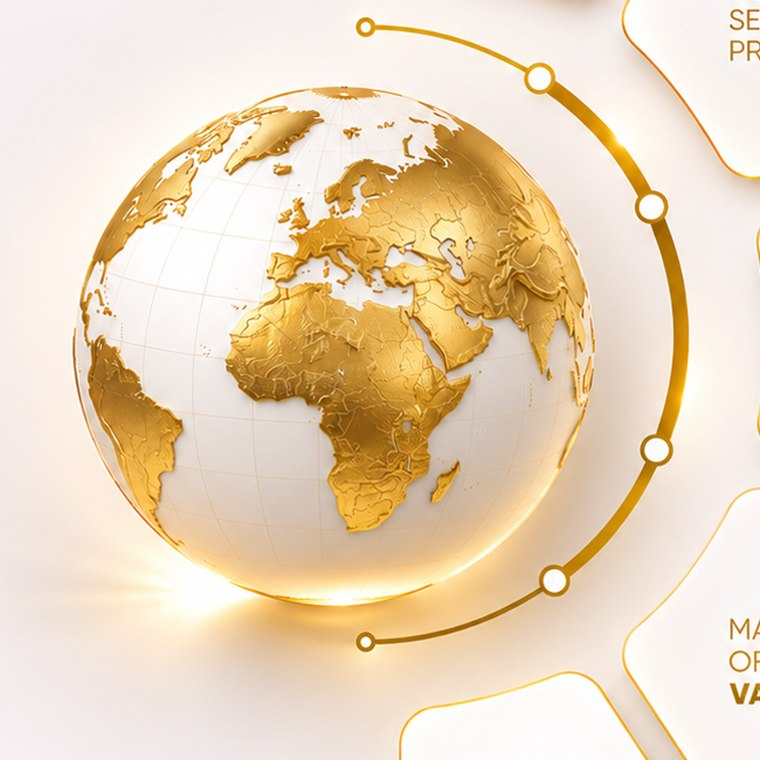
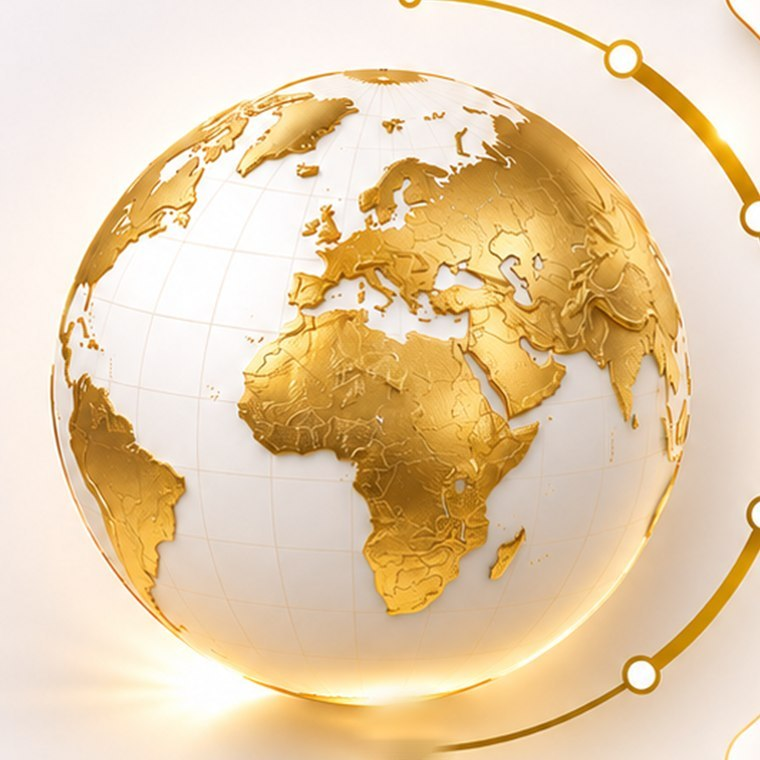
Advanced Skill Building: drop the photo, centre the card
Also recut the jobs globe. The old crop took a 650px square out of the
source artwork, which caught the connector arc and the corners of three
of the artwork's own cards — the box showing below the globe was one of
those. The arc hugs the sphere too closely to mask away, so the new crop
is tight to the globe and the arc goes with it. Mask narrowed to match.

diff --git a/styles.css b/styles.css
@@ -1757,10 +1757,11 @@ h1,h2,h3,h4{font-family:'Outfit',sans-serif;line-height:1.1;font-weight:800;lett
 .tp-jobs-globe{position:sticky;top:110px}
 .tp-jobs-globe img{
   width:100%;max-width:560px;display:block;
-  /* feathered edges, so the artwork's own background melts into the band
-     instead of showing as a pale square */
-  -webkit-mask-image:radial-gradient(closest-side,#000 68%,transparent 97%);
-  mask-image:radial-gradient(closest-side,#000 68%,transparent 97%);
+  /* The artwork is cropped tight to the sphere, so the mask only has to
+     feather the last few per cent — anything wider and it would eat into
+     the glow under the globe. */
+  -webkit-mask-image:radial-gradient(circle closest-side,#000 92%,transparent 97%);
+  mask-image:radial-gradient(circle closest-side,#000 92%,transparent 97%);
 }
 
 /* The cards are as wide as their column and are then pushed right along the
@@ -1825,16 +1826,17 @@ h1,h2,h3,h4{font-family:'Outfit',sans-serif;line-height:1.1;font-weight:800;lett
 
 /* ---------- advanced skill building strip ---------- */
 .tp-extra{position:relative;overflow:hidden;padding:60px 0;background:var(--white)}
-.tp-extra-bg{
-  position:absolute;right:0;top:0;width:46%;height:100%;object-fit:cover;object-position:50% 30%;
-}
 .tp-extra .shell{position:relative;z-index:1}
+/* no photo behind it any more, so the card sits centred on the band */
 .tp-extra-card{
-  display:flex;gap:0;max-width:620px;
+  display:flex;gap:0;max-width:620px;margin:0 auto;
   background:#fff;border:1px solid var(--line);border-radius:18px;overflow:hidden;
   box-shadow:0 22px 50px rgba(20,19,18,.14);
 }
-.tp-extra-item{flex:1;display:flex;align-items:center;gap:14px;padding:24px 22px}
+.tp-extra-item{
+  flex:1;display:flex;flex-direction:column;align-items:center;justify-content:center;
+  text-align:center;gap:12px;padding:26px 22px;
+}
 .tp-extra-item+.tp-extra-item{border-left:1px solid var(--line)}
 .tp-extra-item b{font-family:'Outfit',sans-serif;font-weight:700;font-size:.95rem;line-height:1.35;color:var(--black)}
 
@@ -1856,7 +1858,6 @@ h1,h2,h3,h4{font-family:'Outfit',sans-serif;line-height:1.1;font-weight:800;lett
   .tp-fan:nth-child(even){border-radius:20px}
   .tp-pro-bg{width:100%;opacity:.3}
   .tp-pro::after{background:linear-gradient(0deg,var(--black) 20%,rgba(11,11,10,.75) 100%)}
-  .tp-extra-bg{width:100%;opacity:.28}
 }
 @media (max-width:820px){
   .tp-prac-grid{grid-template-columns:1fr;max-width:560px}

diff --git a/training.html b/training.html
@@ -412,7 +412,6 @@
 
 <!-- ============ 09. ADVANCED SKILL BUILDING ============ -->
 <section class="tp-extra">
-  <img src="assets/img/fresher.jpg" alt="" class="tp-extra-bg" loading="lazy" decoding="async">
   <div class="shell">
     <div class="tp-extra-card reveal">
       <div class="tp-extra-item">
